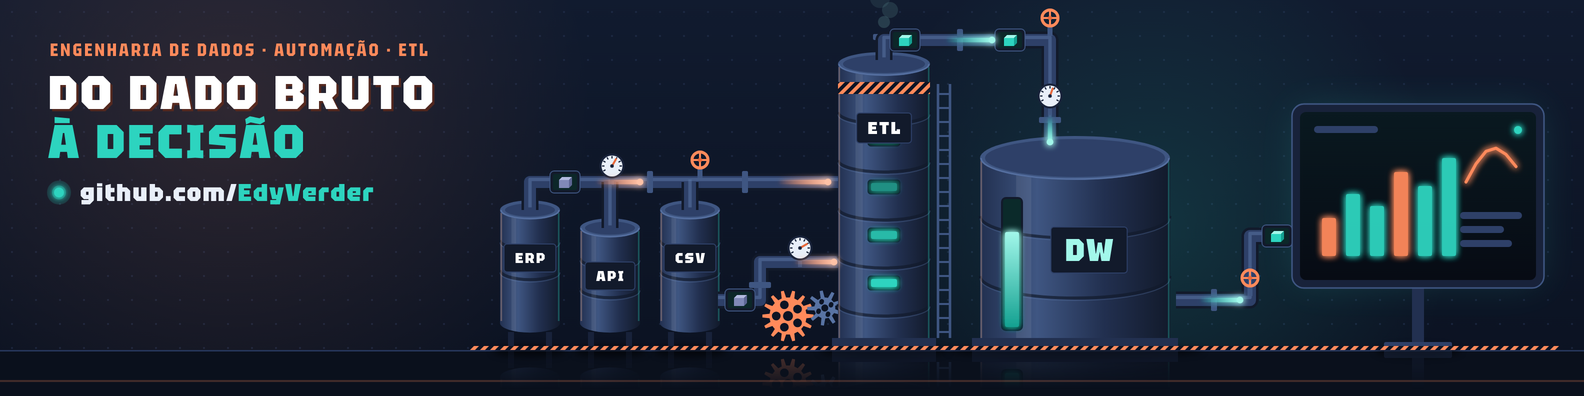
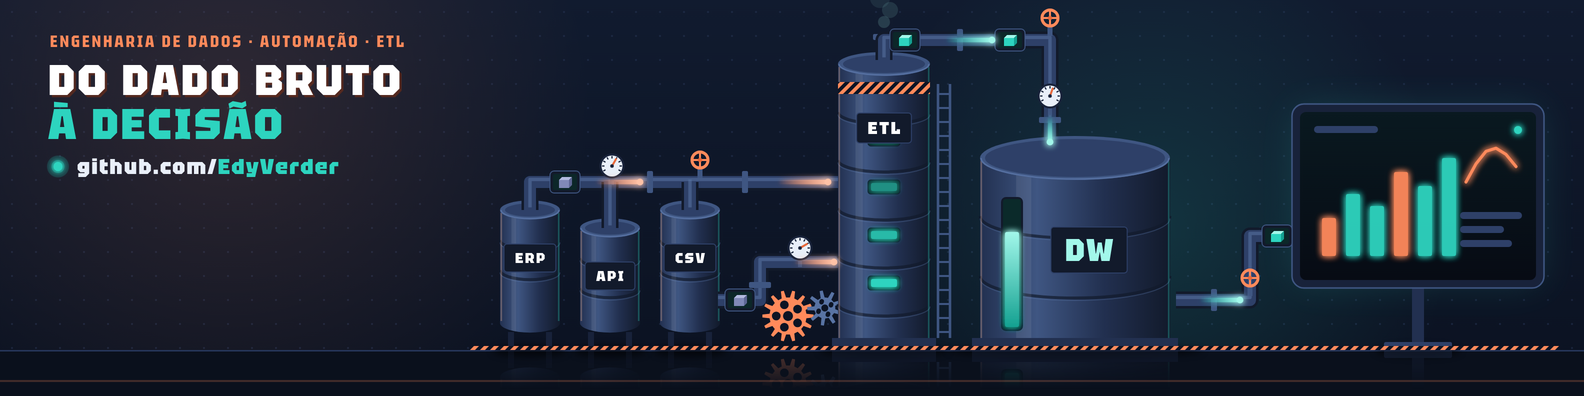
Capa do LinkedIn: texto menor e mais alto, com folga para a foto do perfil

Changed region(s): [[0.0309, 0.0909, 0.2784, 0.5152]]

diff --git a/scripts/gerar_capa_linkedin.py b/scripts/gerar_capa_linkedin.py
@@ -156,15 +156,17 @@ def main():
 
     # chamada à esquerda (a foto do perfil cobre o canto de baixo, então tudo fica no alto). No computador o
     # LinkedIn mostra a capa com cerca de metade da largura, por isso letras maiores que na versão anterior.
-    sob, _ = texto(TK700, 12.5, "ENGENHARIA DE DADOS · AUTOMAÇÃO · ETL", 50, 56, c["brasa"], 2.2)
-    l1, _ = texto(TK900, 33, "DO DADO BRUTO", 48, 109, "#ffffff", 2)
-    l2, _ = texto(TK900, 33, "À DECISÃO", 48, 158, c["dado"], 2)
+    # O bloco fica no alto e um pouco menor: no LinkedIn a foto do perfil sobe até ~y 230 nesta escala, e o
+    # endereço do GitHub precisa de folga dela (pedido do dono em 08/11, depois de ver a capa publicada).
+    sob, _ = texto(TK700, 11.5, "ENGENHARIA DE DADOS · AUTOMAÇÃO · ETL", 50, 47, c["brasa"], 2.2)
+    l1, _ = texto(TK900, 30, "DO DADO BRUTO", 48, 95, "#ffffff", 2)
+    l2, _ = texto(TK900, 30, "À DECISÃO", 48, 139, c["dado"], 2)
     # endereço do GitHub como na primeira capa: bolinha verde acesa, "github.com/" em branco e o nome em verde-água
-    u1, larg1 = texto(TK900, 17, "github.com/", 80, 201, "#e9eff9", 1.2)
-    u2, _ = texto(TK900, 17, "EdyVerder", 80 + larg1 + 1, 201, c["dado"], 1.2)
-    url = (f'<circle cx="59" cy="192.5" r="12" fill="{c["dado"]}" opacity=".16"/>'
-           f'<circle cx="59" cy="192.5" r="7" fill="{c["dado"]}" opacity=".35"/>'
-           f'<circle cx="59" cy="192.5" r="5" fill="{c["dado"]}" filter="url(#brilho)"/>' + u1 + u2)
+    u1, larg1 = texto(TK900, 15, "github.com/", 77, 174, "#e9eff9", 1.2)
+    u2, _ = texto(TK900, 15, "EdyVerder", 77 + larg1 + 1, 174, c["dado"], 1.2)
+    url = (f'<circle cx="58" cy="166.5" r="11" fill="{c["dado"]}" opacity=".16"/>'
+           f'<circle cx="58" cy="166.5" r="6.5" fill="{c["dado"]}" opacity=".35"/>'
+           f'<circle cx="58" cy="166.5" r="4.6" fill="{c["dado"]}" filter="url(#brilho)"/>' + u1 + u2)
     chamada = sob + f'<g transform="translate(2.2 2.2)" opacity=".55">{l1.replace(chr(34) + "#ffffff" + chr(34), chr(34) + c["brasa4"] + chr(34))}</g>' + l1 + l2 + url
 
     # tanques de origem
